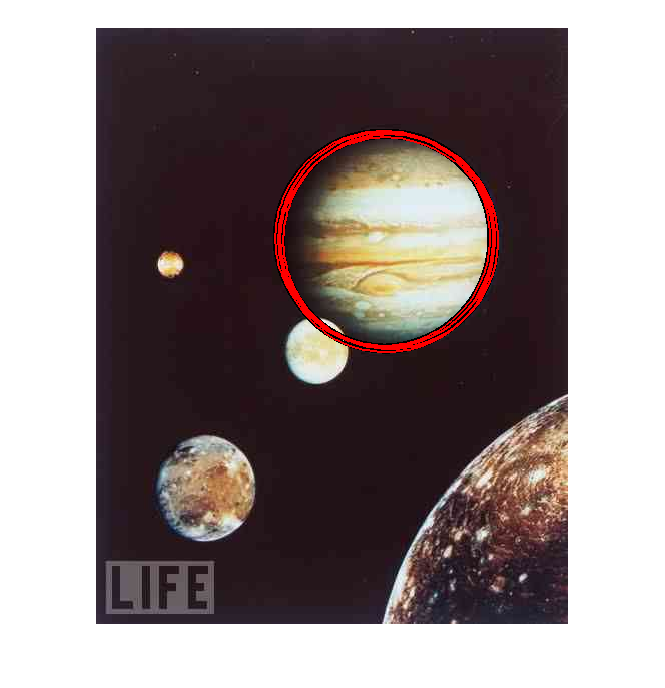
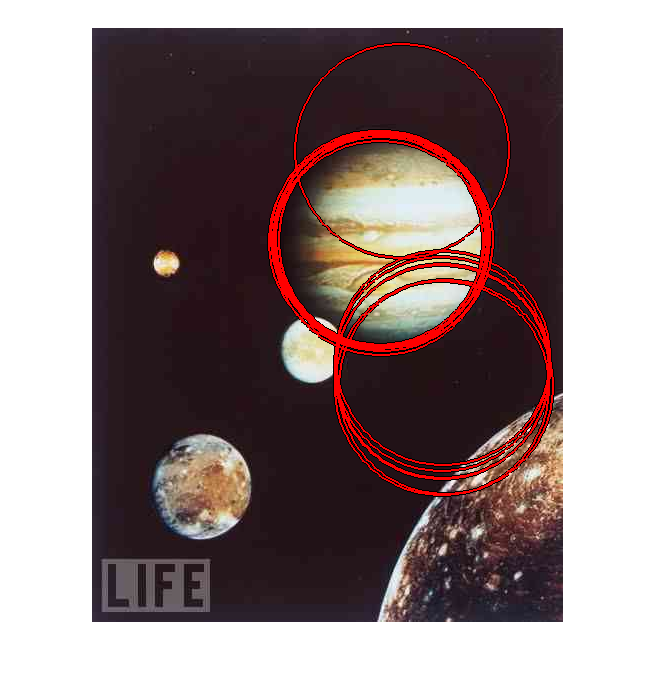
done

diff --git a/detectCircles.m b/detectCircles.m
@@ -21,7 +21,7 @@ function [centers] = detectCircles(im, radius)
 
   % Post processing of the voting array with a bin size.
   PP = zeros(size(H));
-  binsize = 1;
+  binsize = 4;
   for i = 1:binsize:h
     binr = i:min(h, i + binsize - 1);
     for j = 1:binsize:w
@@ -42,6 +42,6 @@ function [centers] = detectCircles(im, radius)
   imagesc(PP)
 
   % Threshold votes.
-  [y, x] = find(PP > int32(max(PP(:)) * 0.8));
+  [y, x] = find(PP > int32(max(PP(:)) * 0.7));
   centers = [x, y];
 return
